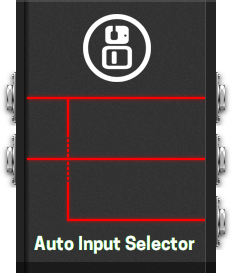
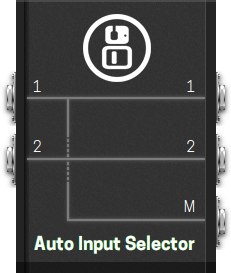
Tweak colors and add labels on gui

Changed region(s): [[0.1212, 0.293, 0.9091, 0.8205]]

diff --git a/mod-auto-input-selector/mod-auto-input-selector.lv2/modgui/mod-auto-input-selector.html b/mod-auto-input-selector/mod-auto-input-selector.lv2/modgui/mod-auto-input-selector.html
@@ -1,6 +1,13 @@
 <div class="mod-pedal mod-auto-input-selector">
     <div mod-role="drag-handle" class="mod-drag-handle"></div>
     <div class="mod-auto-input-selector-status"></div>
+    <div class="mod-auto-input-selector-labels">
+        <span class="mod-auto-input-selector-left mod-auto-input-selector-1">1</span>
+        <span class="mod-auto-input-selector-left mod-auto-input-selector-2">2</span>
+        <span class="mod-auto-input-selector-right mod-auto-input-selector-1">1</span>
+        <span class="mod-auto-input-selector-right mod-auto-input-selector-2">2</span>
+        <span class="mod-auto-input-selector-right mod-auto-input-selector-M">M</span>
+    </div>
     <div class="mod-pedal-input">
         {{#effect.ports.audio.input}}
         <div class="mod-input mod-input-disconnected" title="{{name}}" mod-role="input-audio-port" mod-port-symbol="{{symbol}}">

diff --git a/mod-auto-output-selector/mod-auto-output-selector.lv2/modgui/mod-auto-output-selector.html b/mod-auto-output-selector/mod-auto-output-selector.lv2/modgui/mod-auto-output-selector.html
@@ -1,6 +1,12 @@
 <div class="mod-pedal mod-auto-output-selector">
     <div mod-role="drag-handle" class="mod-drag-handle"></div>
     <div class="mod-auto-output-selector-status"></div>
+    <div class="mod-auto-output-selector-labels">
+        <span class="mod-auto-output-selector-left mod-auto-output-selector-1">1</span>
+        <span class="mod-auto-output-selector-left mod-auto-output-selector-2">2</span>
+        <span class="mod-auto-output-selector-right mod-auto-output-selector-1">1</span>
+        <span class="mod-auto-output-selector-right mod-auto-output-selector-2">2</span>
+    </div>
     <div class="mod-pedal-input">
         {{#effect.ports.audio.input}}
         <div class="mod-input mod-input-disconnected" title="{{name}}" mod-role="input-audio-port" mod-port-symbol="{{symbol}}">

diff --git a/mod-auto-input-selector/mod-auto-input-selector.lv2/modgui/mod-auto-input-selector.css b/mod-auto-input-selector/mod-auto-input-selector.lv2/modgui/mod-auto-input-selector.css
@@ -15,6 +15,32 @@
     width:182px;
     height:136px;
 }
+.mod-auto-input-selector .mod-auto-input-selector-labels {
+    position:absolute;
+    top:calc(91px - 1em);
+    left:7px;
+    width:182px;
+    height:136px;
+    color:#fff;
+    font-size:14px;
+}
+.mod-auto-input-selector .mod-auto-input-selector-left {
+    position:absolute;
+    left:10px;
+}
+.mod-auto-input-selector .mod-auto-input-selector-right {
+    position:absolute;
+    right:10px;
+}
+.mod-auto-input-selector .mod-auto-input-selector-1 {
+    top:0px;
+}
+.mod-auto-input-selector .mod-auto-input-selector-2 {
+    top:60px;
+}
+.mod-auto-input-selector .mod-auto-input-selector-M {
+    top:120px;
+}
 .mod-auto-input-selector .mod-pedal-input,
 .mod-auto-input-selector .mod-pedal-output {
     top:70px;

diff --git a/mod-auto-output-selector/mod-auto-output-selector.lv2/modgui/mod-auto-output-selector.css b/mod-auto-output-selector/mod-auto-output-selector.lv2/modgui/mod-auto-output-selector.css
@@ -15,6 +15,29 @@
     width:187px;
     height:76px;
 }
+.mod-auto-output-selector .mod-auto-output-selector-labels {
+    position:absolute;
+    top:calc(114px - 1em);
+    left:7px;
+    width:182px;
+    height:136px;
+    color:#fff;
+    font-size:14px;
+}
+.mod-auto-output-selector .mod-auto-output-selector-left {
+    position:absolute;
+    left:10px;
+}
+.mod-auto-output-selector .mod-auto-output-selector-right {
+    position:absolute;
+    right:10px;
+}
+.mod-auto-output-selector .mod-auto-output-selector-1 {
+    top:0px;
+}
+.mod-auto-output-selector .mod-auto-output-selector-2 {
+    top:62px;
+}
 .mod-auto-output-selector .mod-pedal-input,
 .mod-auto-output-selector .mod-pedal-output {
     top:93px;
